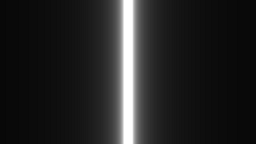
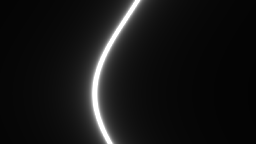
add some png

Changed region(s): [[0.3125, 0.0, 0.625, 1.0]]

diff --git a/index.html b/index.html
@@ -7,47 +7,80 @@
     <body>
         <h1>シェーダーメモ</h1>
         <p>シェーダー書くためのメモ</p>
-    
-    <div>
-        <article class="article"></article>
-            <h2>Box</h2>
-            <p>正確ではないが文字数が少ない</p>
-<pre>
-<code>
-float sdBox(vec3 p, float s)
-{
-    p = abs(p) - s;
-    return max(max(p.x, p.y), p.z);
-}
-</code>
-</pre>
 
-        </article>
+    <div class="container">
+<!-- ======================== Left Menu =====================================-->
+    <div class="left">
+        <h2 class="title">MENU</h2>
+        <ul>
+            <li><a href>A</a></li>
+            <li><a href>B</a></li>
+            <li><a href>C</a></li>
+        </ul>
+    </div>
 
-        <article>
-            <h2>Circle</h2>
-            <p>circleProgram</p>
-        </article>
-
-
-        <h2>Line</h2>
+<!-- ======================== Right =====================================-->
+    <div class="right">
+<!-- ======================== Box =====================================-->
+        <h2 class="title">Box</h2>
         <div class="article">
-            
+            <p class="title">正確ではないが文字数が少ない</p>
+            <div class="flex">
+                <figure class="image"><img src="img/box01.png"></figure>
+                <p class="code">
+float sdBox(vec2 p, float s)
+{
+p = abs(p) - s;
+return max(p.x, p.y);
+}
+                </p>
+            </div>
+        </div>
+
+<!-- ======================== Line =====================================-->
+        <h2 class="title">Line</h2>
+        <div class="article">
             <p class="title">マイク入力によって横幅の変わる縦線</p>
             <!-- <a href="line01.html">詳細</a> -->
             
             <div class="flex">
-                <figure class="image"><img src="img/line02.png"></figure>
+                <figure class="image"><img src="img/line01.png"></figure>
                 <p class="code">
 vec3 spec;  // マイクからの入力
 col += abs(1.0/uv.x) * spec.y;
                 </p>
             </div>
         </div>
-        
+
+        <div class="article">
+            <p class="title">揺れる縦線</p>
+            <div class="flex">
+                <figure class="image"><img src="img/line02.png"></figure>
+                <p class="code">
+vec2 uv = -1. + 2. * inData.v_texcoord;
+uv.x += sin(time * 8.0 + uv.y * 1.5) * spec.y;
+col += abs(0.066/uv.x) * spec.y;
+                </p>
+            </div>
+        </div>
+
+<!-- ======================== Normalize =====================================-->
+        <h2 class="title">Normalize</h2>
+        <div class="article">
+            <p class="title">uvの正規化</p>
+            <div class="flex">
+                <figure class="image"><img src="img/normalize01.png"></figure>
+                <p class="code">
+vec2 uv = 
+(2.0*inData.v_texcoord-1.0)*resolution/min(resolution.x,resolution.y);
+                </p>
+            </div>
+        </div>
+    </div>
     </div>
     
-    
+
+
     </body>
 
 

diff --git a/style.css b/style.css
@@ -4,9 +4,37 @@ body
 {
     background-color: rgb(45, 45, 48);
 }
+
+div.container
+{
+    /* content:"";
+    display: block;
+    clear: both; */
+    display: flex;
+}
+
+div.left
+{
+    background-color: rgb(19, 19, 26);
+    width: 300px;
+    margin: 10px;
+}
+
+div.right
+{
+    width: 75%;
+}
+
+h2.title
+{
+    color: white;
+    margin: 10px;
+    padding: 0px 0px 0px 30px;
+    background-color: rgb(19, 19, 26);
+}
 .article
 {
-    width: 70%;
+    margin: 10px;
     background-color: rgb(19, 19, 26);
 }
 
